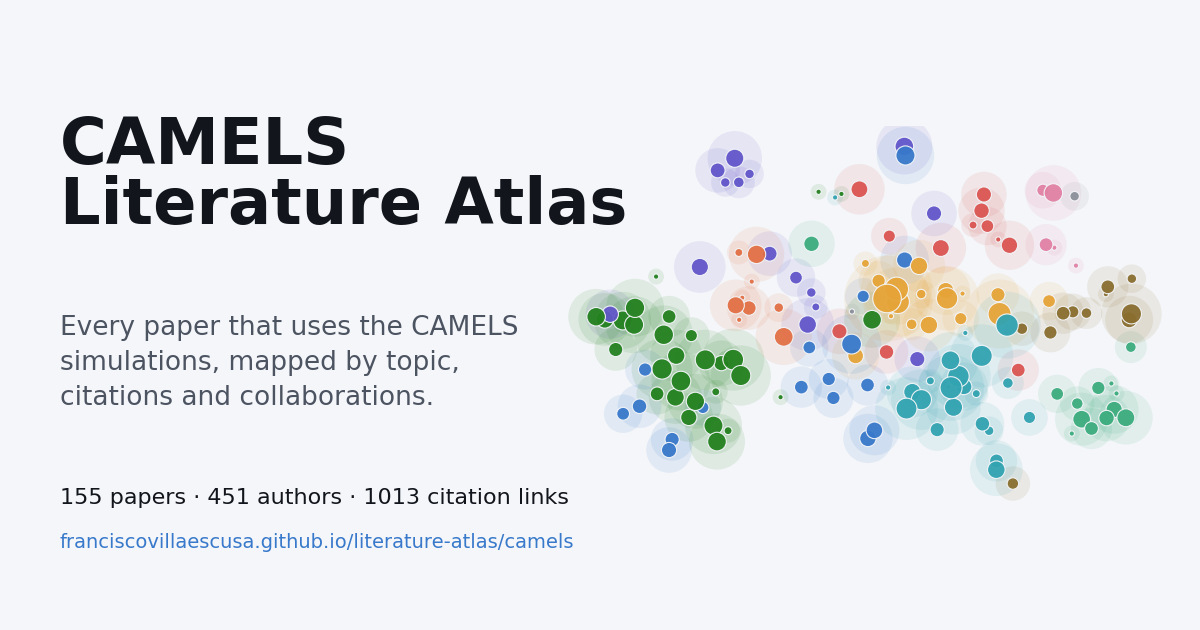
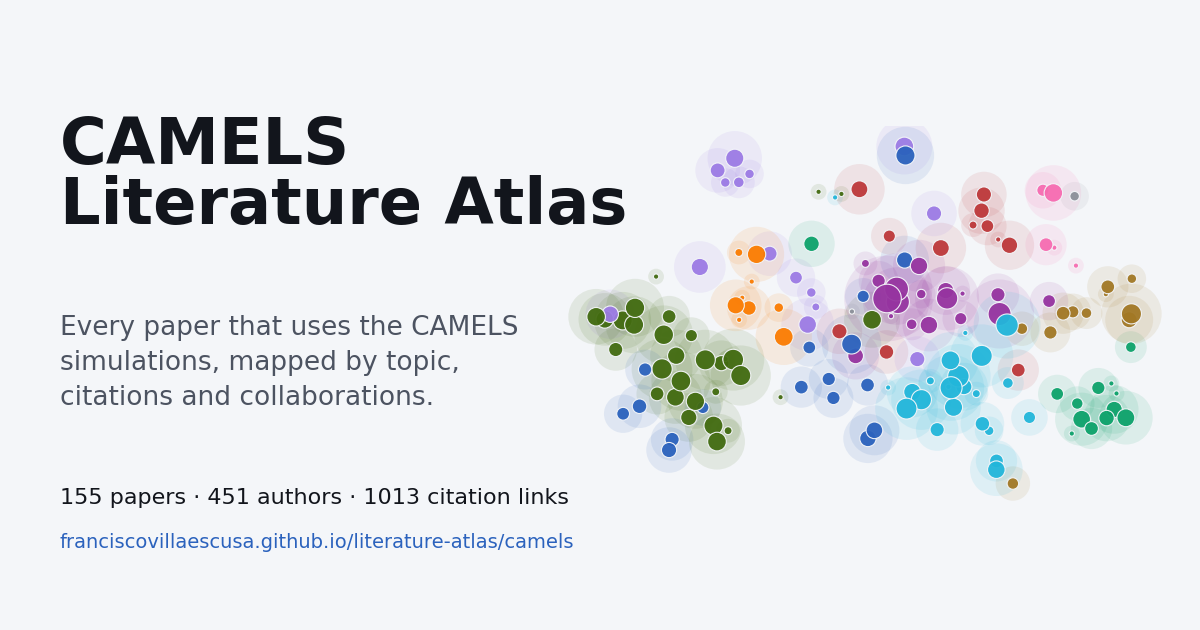
Page: a more distinct topic palette (light and dark)
The ten topic colours had pairs that were hard to tell apart: two greens and
a red / orange-red / salmon group (worst pair OKLab ΔE 6.6 for normal vision,
2.6 for colour-blind vision; two colours read as grey).

New palette: ten clearly different hues (red, orange, ochre, olive, emerald,
cyan, blue, lavender, purple, pink), found by a search that requires every
pair to be at least ΔE 15 apart for normal vision and maximises the
colour-blind separation, with hues spread at least 28° apart; dark mode uses
the same hues stepped for the dark surface. Checked with the dataviz palette
validator against the site's own surfaces, all pairs (the maps):
  light: normal-vision worst 15.4 (was 6.6), CVD worst 6.2 (was 2.6)
  dark:  normal-vision worst 15.0 (was 6.7), CVD worst 5.6 (was 1.4)
  lightness band and chroma floor pass in both modes.
Ten colours on a scatter cannot all clear the colour-blind target; the topic
labels, hover names, topic filters and the table are the secondary cues.

Each topic keeps the nearest hue it had, except slot 7 (Quijote "Simulations,
covariances & inference tools", CAMELS "Galaxy properties & CAMELS releases"),
which goes from orange-yellow to purple. The link-preview images follow.

diff --git a/camels/index.html b/camels/index.html
@@ -24,7 +24,7 @@
 :root {
   --bg: #f4f6f9; --surface: #ffffff; --ink: #12151c; --ink-2: #4c5361; --muted: #7d8492;
   --line: #e1e5eb; --edge: rgba(18,21,28,0.13); --edge-hi: #12151c; --accent: #2a78d6; --wash: rgba(42,120,214,0.08);
-  --t0: #896e2f; --t1: #23811f; --t2: #e181a4; --t3: #6256ca; --t4: #da5551; --t5: #3bac7d; --t6: #3879cb; --t7: #e6a438; --t8: #32a3b1; --t9: #e27045; --t10: #8b9099; --seq0: #9ec5f4; --seq1: #104281;
+  --t0: #a27825; --t1: #426b10; --t2: #f76cb1; --t3: #9c7be5; --t4: #bd383a; --t5: #0da26b; --t6: #2b62bd; --t7: #9634a0; --t8: #22b6da; --t9: #fb7c01; --t10: #8b9099; --seq0: #9ec5f4; --seq1: #104281;
   --f-display: "Space Grotesk", "Helvetica Neue", Arial, sans-serif;
   --f-body: Inter, system-ui, -apple-system, "Segoe UI", sans-serif;
   --f-mono: "IBM Plex Mono", ui-monospace, Menlo, monospace;
@@ -32,11 +32,11 @@
 @media (prefers-color-scheme: dark) { :root:not([data-theme="light"]) {
   --bg: #0e1116; --surface: #161a21; --ink: #eef0f4; --ink-2: #b6bcc8; --muted: #858c99;
   --line: #2a303b; --edge: rgba(238,240,244,0.12); --edge-hi: #eef0f4; --accent: #3987e5; --wash: rgba(57,135,229,0.14);
-  --t0: #977c36; --t1: #23811f; --t2: #cd5a82; --t3: #9088df; --t4: #de6e6d; --t5: #359b73; --t6: #4688da; --t7: #c3882d; --t8: #349daa; --t9: #d06138; --t10: #7b808a; --seq0: #1c5cab; --seq1: #cde2fb; color-scheme: dark; } }
+  --t0: #855900; --t1: #7fa150; --t2: #e359a8; --t3: #a473f7; --t4: #c72b3f; --t5: #058057; --t6: #2566b8; --t7: #9d309d; --t8: #209dc3; --t9: #e56c03; --t10: #7b808a; --seq0: #1c5cab; --seq1: #cde2fb; color-scheme: dark; } }
 :root[data-theme="dark"] {
   --bg: #0e1116; --surface: #161a21; --ink: #eef0f4; --ink-2: #b6bcc8; --muted: #858c99;
   --line: #2a303b; --edge: rgba(238,240,244,0.12); --edge-hi: #eef0f4; --accent: #3987e5; --wash: rgba(57,135,229,0.14);
-  --t0: #977c36; --t1: #23811f; --t2: #cd5a82; --t3: #9088df; --t4: #de6e6d; --t5: #359b73; --t6: #4688da; --t7: #c3882d; --t8: #349daa; --t9: #d06138; --t10: #7b808a; --seq0: #1c5cab; --seq1: #cde2fb; color-scheme: dark; }
+  --t0: #855900; --t1: #7fa150; --t2: #e359a8; --t3: #a473f7; --t4: #c72b3f; --t5: #058057; --t6: #2566b8; --t7: #9d309d; --t8: #209dc3; --t9: #e56c03; --t10: #7b808a; --seq0: #1c5cab; --seq1: #cde2fb; color-scheme: dark; }
 
 html, body { height: 100%; }
 body { background: var(--bg); color: var(--ink); font-family: var(--f-body); font-size: 14px; line-height: 1.5;

diff --git a/quijote/index.html b/quijote/index.html
@@ -21,7 +21,7 @@
 :root {
   --bg: #f4f6f9; --surface: #ffffff; --ink: #12151c; --ink-2: #4c5361; --muted: #7d8492;
   --line: #e1e5eb; --edge: rgba(18,21,28,0.13); --edge-hi: #12151c; --accent: #2a78d6; --wash: rgba(42,120,214,0.08);
-  --t0: #896e2f; --t1: #23811f; --t2: #e181a4; --t3: #6256ca; --t4: #da5551; --t5: #3bac7d; --t6: #3879cb; --t7: #e6a438; --t8: #32a3b1; --t9: #e27045; --t10: #8b9099; --seq0: #9ec5f4; --seq1: #104281;
+  --t0: #a27825; --t1: #426b10; --t2: #f76cb1; --t3: #9c7be5; --t4: #bd383a; --t5: #0da26b; --t6: #2b62bd; --t7: #9634a0; --t8: #22b6da; --t9: #fb7c01; --t10: #8b9099; --seq0: #9ec5f4; --seq1: #104281;
   --f-display: "Space Grotesk", "Helvetica Neue", Arial, sans-serif;
   --f-body: Inter, system-ui, -apple-system, "Segoe UI", sans-serif;
   --f-mono: "IBM Plex Mono", ui-monospace, Menlo, monospace;
@@ -29,11 +29,11 @@
 @media (prefers-color-scheme: dark) { :root:not([data-theme="light"]) {
   --bg: #0e1116; --surface: #161a21; --ink: #eef0f4; --ink-2: #b6bcc8; --muted: #858c99;
   --line: #2a303b; --edge: rgba(238,240,244,0.12); --edge-hi: #eef0f4; --accent: #3987e5; --wash: rgba(57,135,229,0.14);
-  --t0: #977c36; --t1: #23811f; --t2: #cd5a82; --t3: #9088df; --t4: #de6e6d; --t5: #359b73; --t6: #4688da; --t7: #c3882d; --t8: #349daa; --t9: #d06138; --t10: #7b808a; --seq0: #1c5cab; --seq1: #cde2fb; color-scheme: dark; } }
+  --t0: #855900; --t1: #7fa150; --t2: #e359a8; --t3: #a473f7; --t4: #c72b3f; --t5: #058057; --t6: #2566b8; --t7: #9d309d; --t8: #209dc3; --t9: #e56c03; --t10: #7b808a; --seq0: #1c5cab; --seq1: #cde2fb; color-scheme: dark; } }
 :root[data-theme="dark"] {
   --bg: #0e1116; --surface: #161a21; --ink: #eef0f4; --ink-2: #b6bcc8; --muted: #858c99;
   --line: #2a303b; --edge: rgba(238,240,244,0.12); --edge-hi: #eef0f4; --accent: #3987e5; --wash: rgba(57,135,229,0.14);
-  --t0: #977c36; --t1: #23811f; --t2: #cd5a82; --t3: #9088df; --t4: #de6e6d; --t5: #359b73; --t6: #4688da; --t7: #c3882d; --t8: #349daa; --t9: #d06138; --t10: #7b808a; --seq0: #1c5cab; --seq1: #cde2fb; color-scheme: dark; }
+  --t0: #855900; --t1: #7fa150; --t2: #e359a8; --t3: #a473f7; --t4: #c72b3f; --t5: #058057; --t6: #2566b8; --t7: #9d309d; --t8: #209dc3; --t9: #e56c03; --t10: #7b808a; --seq0: #1c5cab; --seq1: #cde2fb; color-scheme: dark; }
 
 html, body { height: 100%; }
 body { background: var(--bg); color: var(--ink); font-family: var(--f-body); font-size: 14px; line-height: 1.5;

diff --git a/atlas.css b/atlas.css
@@ -2,7 +2,7 @@
 :root {
   --bg: #f4f6f9; --surface: #ffffff; --ink: #12151c; --ink-2: #4c5361; --muted: #7d8492;
   --line: #e1e5eb; --edge: rgba(18,21,28,0.13); --edge-hi: #12151c; --accent: #2a78d6; --wash: rgba(42,120,214,0.08);
-  --t0: #896e2f; --t1: #23811f; --t2: #e181a4; --t3: #6256ca; --t4: #da5551; --t5: #3bac7d; --t6: #3879cb; --t7: #e6a438; --t8: #32a3b1; --t9: #e27045; --t10: #8b9099; --seq0: #9ec5f4; --seq1: #104281;
+  --t0: #a27825; --t1: #426b10; --t2: #f76cb1; --t3: #9c7be5; --t4: #bd383a; --t5: #0da26b; --t6: #2b62bd; --t7: #9634a0; --t8: #22b6da; --t9: #fb7c01; --t10: #8b9099; --seq0: #9ec5f4; --seq1: #104281;
   --f-display: "Space Grotesk", "Helvetica Neue", Arial, sans-serif;
   --f-body: Inter, system-ui, -apple-system, "Segoe UI", sans-serif;
   --f-mono: "IBM Plex Mono", ui-monospace, Menlo, monospace;
@@ -10,11 +10,11 @@
 @media (prefers-color-scheme: dark) { :root:not([data-theme="light"]) {
   --bg: #0e1116; --surface: #161a21; --ink: #eef0f4; --ink-2: #b6bcc8; --muted: #858c99;
   --line: #2a303b; --edge: rgba(238,240,244,0.12); --edge-hi: #eef0f4; --accent: #3987e5; --wash: rgba(57,135,229,0.14);
-  --t0: #977c36; --t1: #23811f; --t2: #cd5a82; --t3: #9088df; --t4: #de6e6d; --t5: #359b73; --t6: #4688da; --t7: #c3882d; --t8: #349daa; --t9: #d06138; --t10: #7b808a; --seq0: #1c5cab; --seq1: #cde2fb; color-scheme: dark; } }
+  --t0: #855900; --t1: #7fa150; --t2: #e359a8; --t3: #a473f7; --t4: #c72b3f; --t5: #058057; --t6: #2566b8; --t7: #9d309d; --t8: #209dc3; --t9: #e56c03; --t10: #7b808a; --seq0: #1c5cab; --seq1: #cde2fb; color-scheme: dark; } }
 :root[data-theme="dark"] {
   --bg: #0e1116; --surface: #161a21; --ink: #eef0f4; --ink-2: #b6bcc8; --muted: #858c99;
   --line: #2a303b; --edge: rgba(238,240,244,0.12); --edge-hi: #eef0f4; --accent: #3987e5; --wash: rgba(57,135,229,0.14);
-  --t0: #977c36; --t1: #23811f; --t2: #cd5a82; --t3: #9088df; --t4: #de6e6d; --t5: #359b73; --t6: #4688da; --t7: #c3882d; --t8: #349daa; --t9: #d06138; --t10: #7b808a; --seq0: #1c5cab; --seq1: #cde2fb; color-scheme: dark; }
+  --t0: #855900; --t1: #7fa150; --t2: #e359a8; --t3: #a473f7; --t4: #c72b3f; --t5: #058057; --t6: #2566b8; --t7: #9d309d; --t8: #209dc3; --t9: #e56c03; --t10: #7b808a; --seq0: #1c5cab; --seq1: #cde2fb; color-scheme: dark; }
 
 html, body { height: 100%; }
 body { background: var(--bg); color: var(--ink); font-family: var(--f-body); font-size: 14px; line-height: 1.5;
